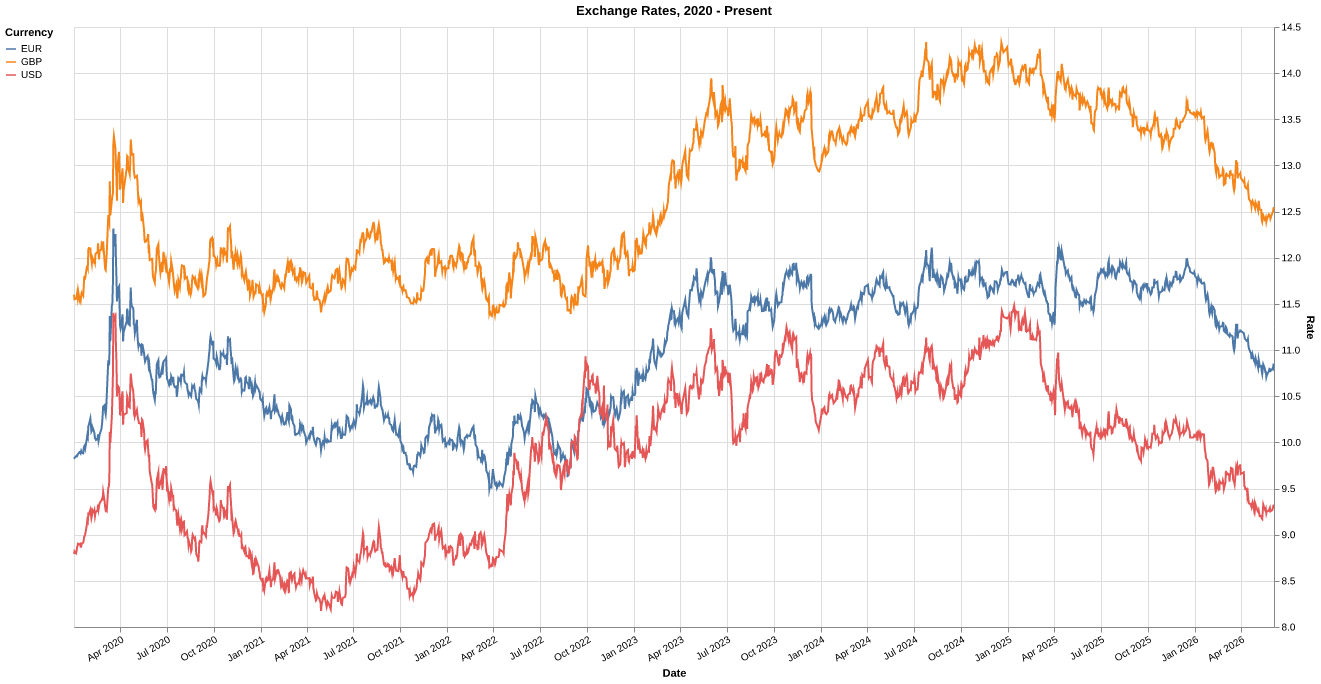
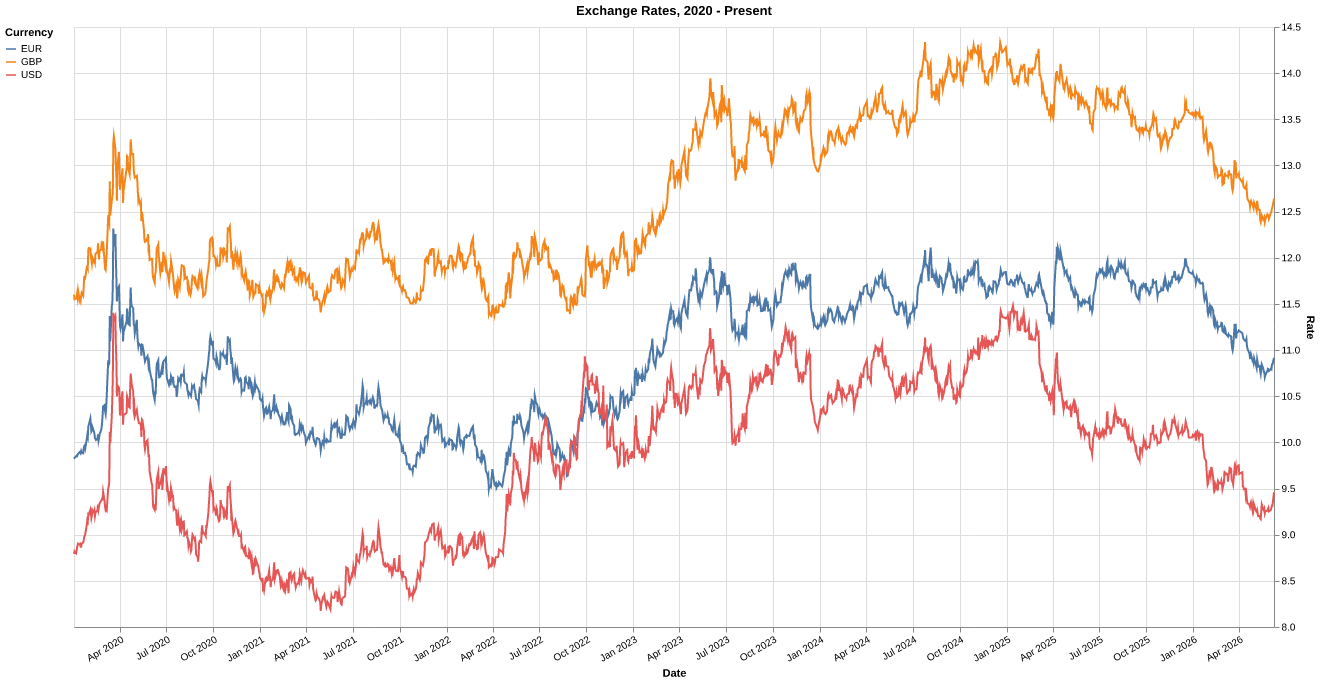
Scheduled data update

diff --git a/README.md b/README.md
@@ -12,10 +12,10 @@ The datasets in this repository are automaticly updated every day at **2:05 AM**
 <!-- table starts -->
 |Dataset|Source|Date Range|Updated|Download|Preview|
 | :--- | :--- | :--- | :--- | :--- | :--- |
-|[Mortgage](#mortgage)|Finansportalen|2021 - Present|2026-06-08|[<center>csv</center>](https://raw.githubusercontent.com/frefrik/norway-finance-statistics/master/data/no_mortgage.csv)|[<center>preview</center>](data/no_mortgage.csv)|
+|[Mortgage](#mortgage)|Finansportalen|2021 - Present|2026-06-09|[<center>csv</center>](https://raw.githubusercontent.com/frefrik/norway-finance-statistics/master/data/no_mortgage.csv)|[<center>preview</center>](data/no_mortgage.csv)|
 |[Key policy rate](#key-policy-rate)|Norges Bank|1991 - Present|2026-06-08|[<center>csv</center>](https://raw.githubusercontent.com/frefrik/norway-finance-statistics/master/data/no_keyPolicyRate.csv)|[<center>preview</center>](data/no_keyPolicyRate.csv)|
-|[NOWA](#nowa---norwegian-overnight-weighted-average)|Norges Bank|2011 - Present|2026-06-08|[<center>csv</center>](https://raw.githubusercontent.com/frefrik/norway-finance-statistics/master/data/no_nowa.csv)|[<center>preview</center>](data/no_nowa.csv)|
-|[Exchange Rates](#exchange-rates)|Norges Bank|1980 - Present|2026-06-06|[<center>csv</center>](https://raw.githubusercontent.com/frefrik/norway-finance-statistics/master/data/no_exchangeRates.csv)|[<center>preview</center>](data/no_exchangeRates.csv)|
+|[NOWA](#nowa---norwegian-overnight-weighted-average)|Norges Bank|2011 - Present|2026-06-09|[<center>csv</center>](https://raw.githubusercontent.com/frefrik/norway-finance-statistics/master/data/no_nowa.csv)|[<center>preview</center>](data/no_nowa.csv)|
+|[Exchange Rates](#exchange-rates)|Norges Bank|1980 - Present|2026-06-09|[<center>csv</center>](https://raw.githubusercontent.com/frefrik/norway-finance-statistics/master/data/no_exchangeRates.csv)|[<center>preview</center>](data/no_exchangeRates.csv)|
 |[Inflation Indicators (CPI)](#inflation-indicators-cpi)|Norges Bank|2006 - Present|2026-05-11|[<center>csv</center>](https://raw.githubusercontent.com/frefrik/norway-finance-statistics/master/data/no_cpi.csv)|[<center>preview</center>](data/no_cpi.csv)|
 <!-- table ends -->
 